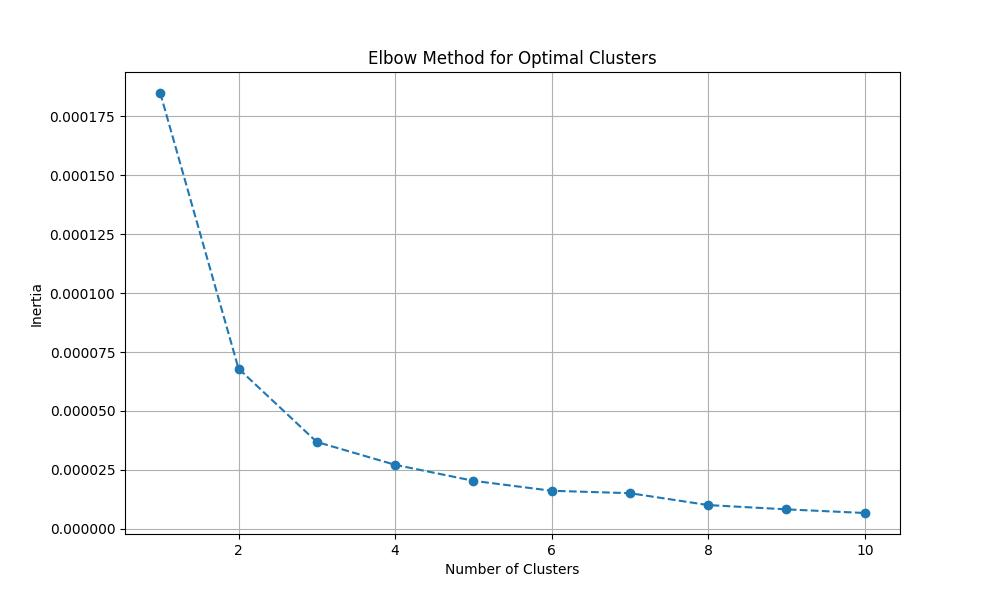
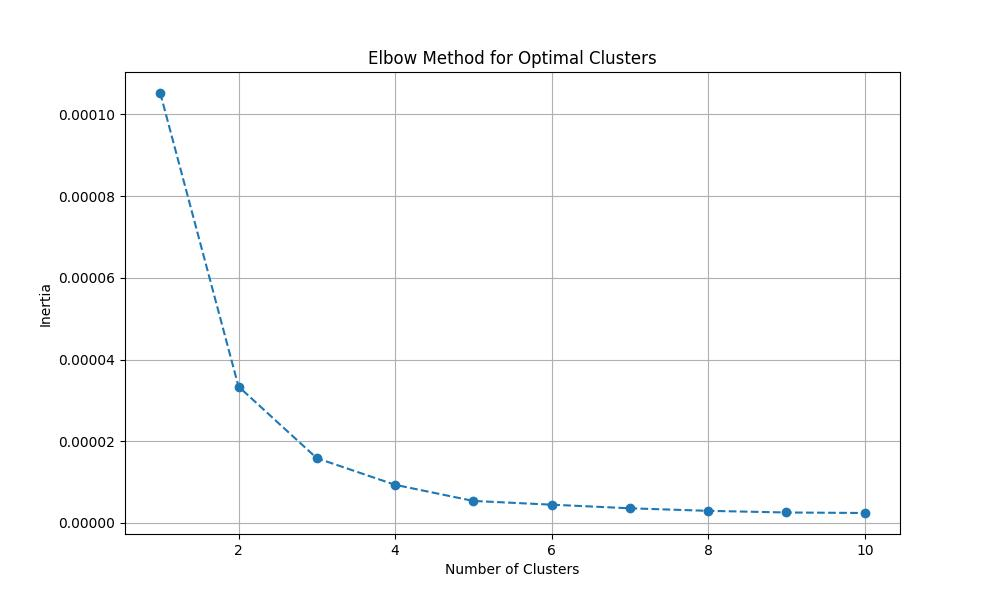
changes

diff --git a/ML/KNN/KNN_2.py b/ML/KNN/KNN_2.py
@@ -115,8 +115,8 @@ def main():
     stocks = load_stock_names(stock_file)
 
     # Define start and end dates
-    start_date = pd.Timestamp("2024-01-01")
-    end_date = pd.Timestamp("2024-01-31")
+    start_date = pd.Timestamp("2021-01-01")
+    end_date = pd.Timestamp("2024-05-31")
 
     # Fetch stock data
     data_frames, valid_stocks = fetch_stock_data(stocks, start_date, end_date)
